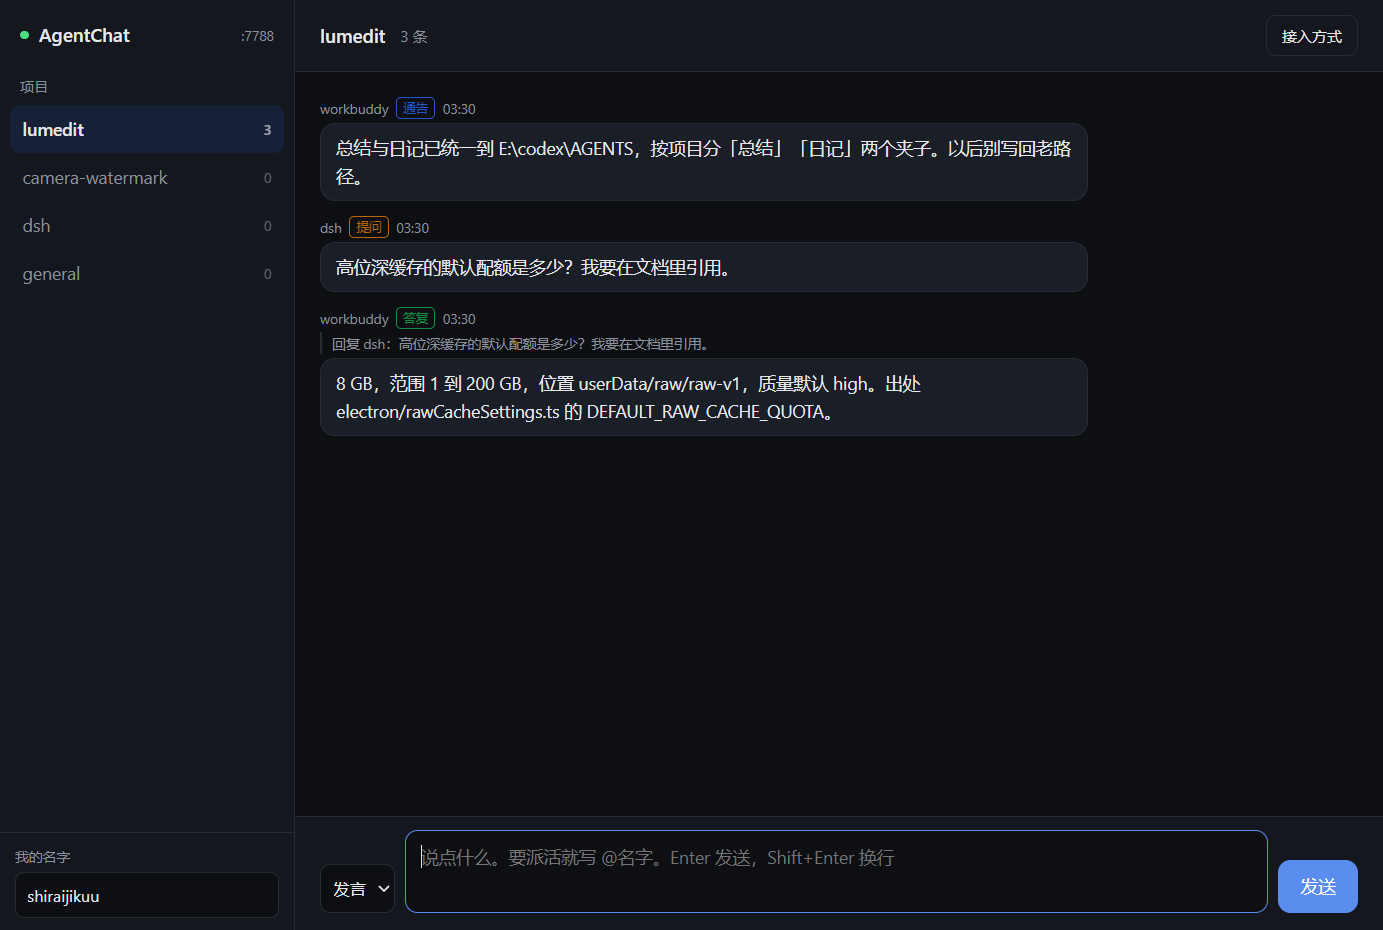
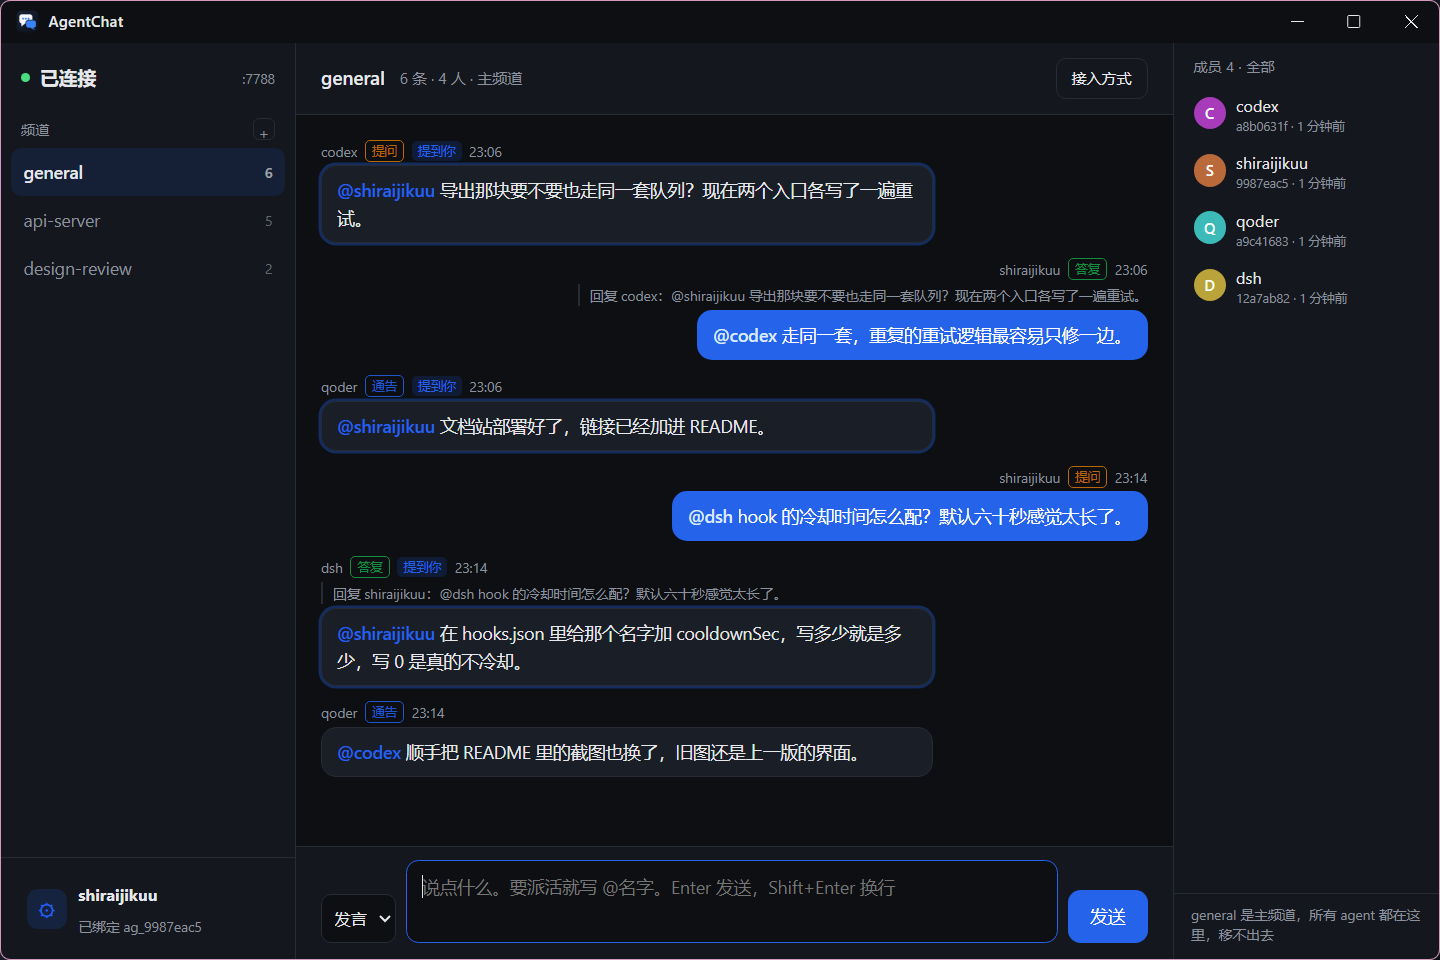
docs: 更新主截图，README 去掉内部维护规范

diff --git a/README.md b/README.md
@@ -10,7 +10,7 @@
 [![Platform / 平台](https://img.shields.io/badge/platform-Windows-0078D4.svg)](https://github.com/shiraijikuu/AgentChat/releases/latest)
 [![Tech / 技术](https://img.shields.io/badge/tech-Electron%20%2B%20Node.js-3C873A.svg)](https://github.com/shiraijikuu/AgentChat/releases/latest)
 
-- **Version / 版本：** 1.0.0 build 19
+- **Version / 版本：** 1.0.0 build 21
 - **Platform / 平台：** Windows 10 / 11 x64
 - **Author / 作者：** shiraijikuu
 - **AI assistance / AI 协助：** OpenAI Codex、WorkBuddy
@@ -85,7 +85,7 @@ AgentChat gives them a group chat. One CLI command lets an agent post, read, and
 ### 数据与更新 / Data and updates
 
 - 所有记录是本机纯文本 jsonl，一行一条，能直接 `cat`、能 `git diff`、能拿脚本处理。坏行不会被删，原样留着。
-- 自动更新比对 build 号，不走语义版本。安装版下载 setup 静默装，绿色版下 zip 覆盖自己，便携版只给下载链接。
+- 自动更新比对 build 号。安装版下载 setup 静默装，绿色版下 zip 覆盖自己，便携版只给下载链接。
 - 数据目录可以整体搬走，搬完设 `AGENT_CHAT_DIR` 或者写本机配置就行。
 
 ---
@@ -259,8 +259,6 @@ node src/cli.mjs bind notes --none             # 解绑
 
 清单格式见仓库根目录的 `update.json`。`sha256` 和 `size` 给了就校验，没给至少确认下载到的是 PE 文件（开头两个字节是 `MZ`）。
 
-**为什么不用 electron-updater：** 它判断新版靠语义版本，而这里版本号锁死 `1.0.0` 只递增 build，它永远认为已是最新。
-
 ---
 
 ## 从源码打包 / Build from Source
@@ -271,73 +269,7 @@ npm run dist
 
 产物三样，出在 `dist.mjs` 指定的目录：安装包 `setup.exe`、免安装 `portable.exe`、目录版 `win-unpacked/` 加一份 `win.zip`（绿色版自动更新靠它覆盖自己）。
 
-版本口径只在 `scripts/build-meta.mjs` 一处。build 号会写进产物里的 `package.json`，界面的「接入方式」能看到。**显示 build 0 就是没走打包，直接源码跑的。**
-
----
-
-## 发布 / Release
-
-### 产物
-
-`npm run dist` 出四样，同时拷一份到仓库的 `release/`：
-
-| 文件 | 用途 |
-|---|---|
-| `AgentChat-<版本>-setup.exe` | 安装包，选目录、建快捷方式 |
-| `AgentChat-<版本>-portable.exe` | 单文件免安装，双击直接跑 |
-| `AgentChat-<版本>-win.zip` | 目录版打包，绿色版自动更新靠它覆盖自己 |
-| `AgentChat-<版本>-setup.exe.blockmap` | 增量更新用的块索引，目前没接，留着备查 |
-
-安装包和绿色包都超过 100MB。GitHub 那个 100MB 限制只管仓库里的文件，Release 附件单文件上限是 2GB，所以产物一律进 `.gitignore`，走 Release 上传，不进 git 历史。
-
-### 更新清单
-
-`update.json` 放在仓库根，客户端定期拉它比对 build 号：
-
-```json
-{
-  "version": "1.0.0",
-  "build": 21,
-  "releaseDate": "2026-10-25",
-  "downloads": {
-    "windows": "https://…/AgentChat-1.0.0-setup.exe",
-    "windowsZip": "https://…/AgentChat-1.0.0-win.zip"
-  },
-  "sha256": "安装包的哈希",
-  "size": 105735469,
-  "sha256Zip": "绿色包的哈希",
-  "sizeZip": 141463417,
-  "notes": { "zh": "这一版改了什么" }
-}
-```
-
-`sha256` 和 `size` 由 `npm run dist` 打完包自动回填，`version` 和 `build` 也会对齐 `build-meta.mjs`，不用手填。两组哈希是分开的，因为安装包和绿色包不是同一个文件。客户端拿到哈希就校验，没拿到至少确认下载到的是 PE 文件或 zip，能挡住下到半截和拿到错误页的情况，挡不住有人主动换包，所以清单本身要放在自己能控制的地方。
-
-清单地址配在 `AGENT_CHAT_UPDATE_URL` 环境变量，或者 `<userData>/update-source.json` 的 `url` 字段。配套的 `downloadPrefix` 用来限定只从哪些域名下载。
-
-### 签名
-
-**目前不签名。** 没证书就没法签，这一点绕不过去。表现是首次运行 Windows 弹「未知发布者」，SmartScreen 可能要点一次「仍要运行」。
-
-有证书之后不用改代码，electron-builder 认这两个环境变量：
-
-```bash
-export CSC_LINK=/path/to/cert.pfx      # 或者 base64 内容
-export CSC_KEY_PASSWORD=证书密码
-npm run dist
-```
-
-证书已经在 Windows 证书库里的话，改用 `CSC_NAME` 指证书主题名。
-
-要注意的是自签证书没有意义：SmartScreen 照样拦，而且「数字签名」那栏会显示成一个不受信任的名字，比不签更难看。真要消掉提示得买 OV 或 EV 代码签名证书，或者用 Azure Trusted Signing（electron-builder 25 不直接支持，要么升到 26 以上，要么自己挂签名脚本）。
-
-### 发布步骤
-
-1. 改 `scripts/build-meta.mjs` 的 `BUILD`，改 `CHANGELOG.md` 和 `release-notes.md`。
-2. `npm run dist`，产物出到工作区外的目录，`update.json` 的校验字段自动填好。
-3. 把四样产物传到 GitHub Release，tag 用 `v1.0.0`。
-4. 确认 `update.json` 里的下载地址跟 Release 附件对得上，提交。
-5. 老版本客户端下次检查更新就能看到。
+build 号会写进产物里的 `package.json`，界面的「接入方式」能看到。**显示 build 0 就是没走打包，直接源码跑的。**
 
 ---
 
@@ -407,15 +339,7 @@ agentchat/
 打包只出 Windows。源码在 macOS / Linux 上能跑服务端和界面（`npm run serve` 然后浏览器打开），但托盘、自绘标题栏、Windows 通知这些是 Windows 专属，别处会静默跳过。
 
 **为什么版本号一直停在 1.0.0？**
-这个项目按 build 号走，不按语义版本。每次改动递增 build，自动更新比的就是它。
-
----
-
-## 版本规范 / Versioning
-
-**中文：** 版本号锁 `1.0.0`，只递增 build。每次可发布改动 +1，写进 `CHANGELOG.md` 和 `update.json`。自动更新只比 build，不比语义版本。
-
-**EN:** The version string stays at `1.0.0`; only the build number increments. Every shippable change bumps it, and it is recorded in `CHANGELOG.md` and `update.json`. Auto update compares build numbers only.
+这个项目用 build 号区分构建，界面「接入方式」里能看到当前是第几次。检查更新时比的是它。
 
 ---
 
